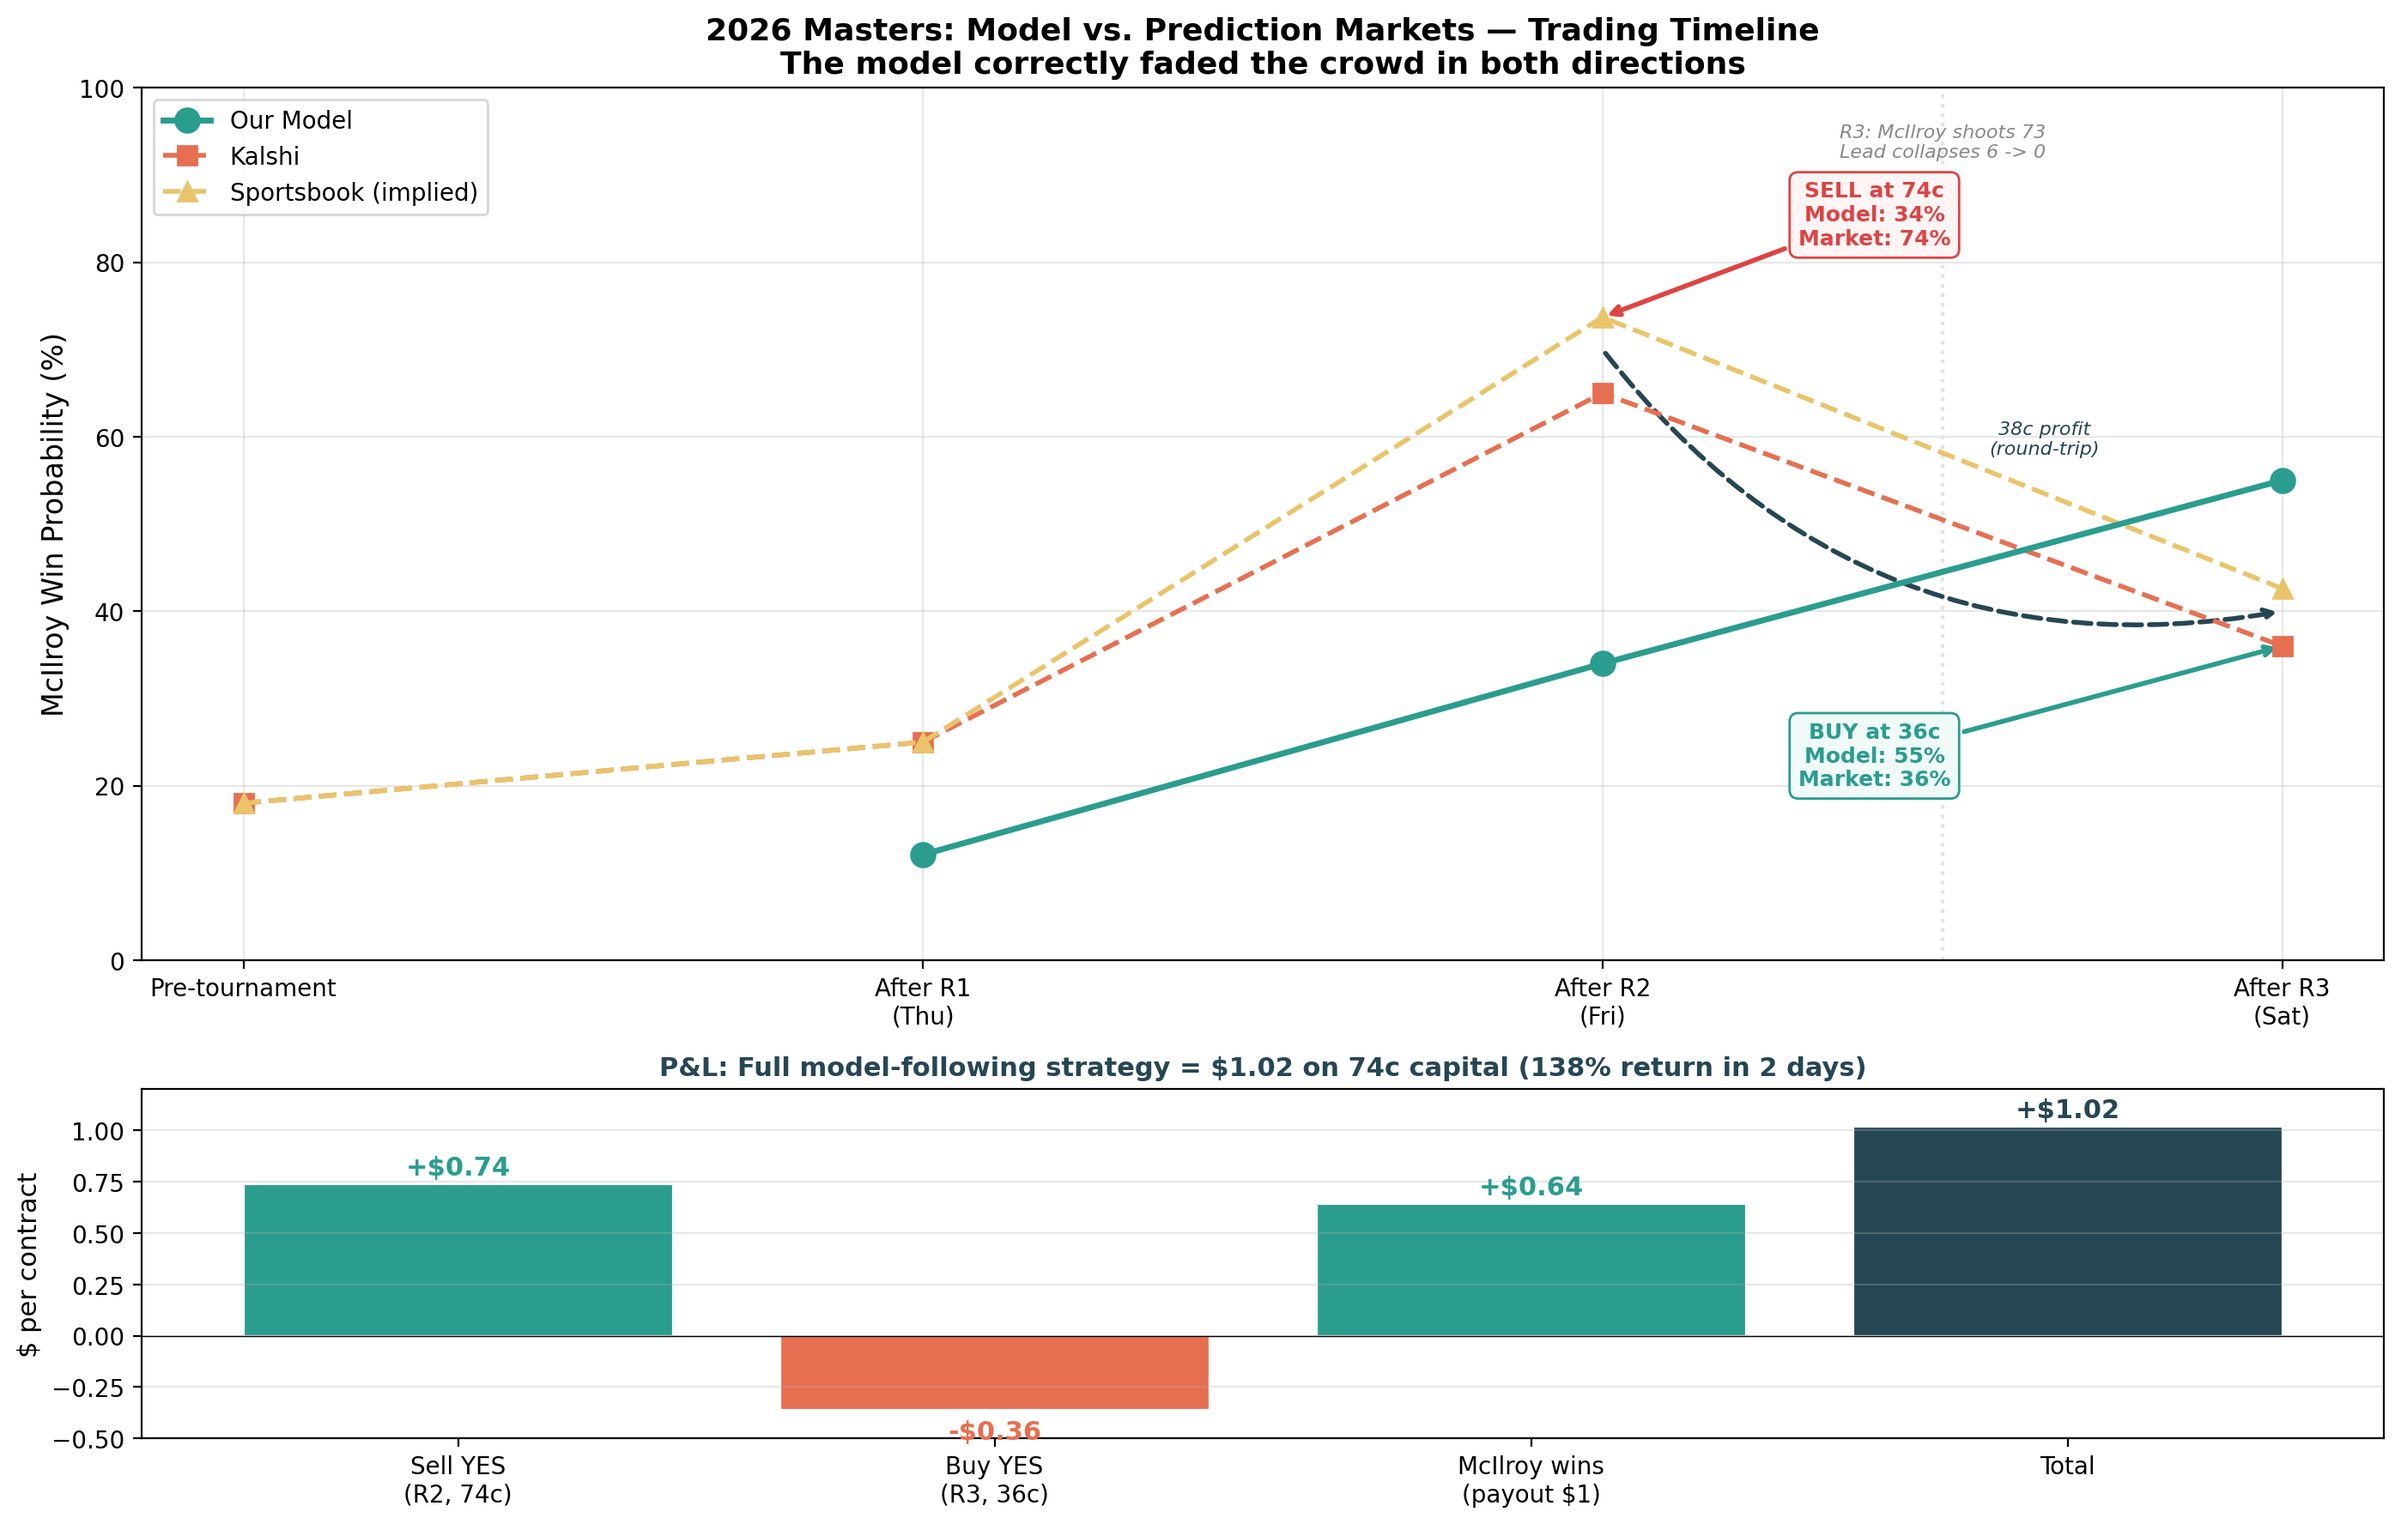
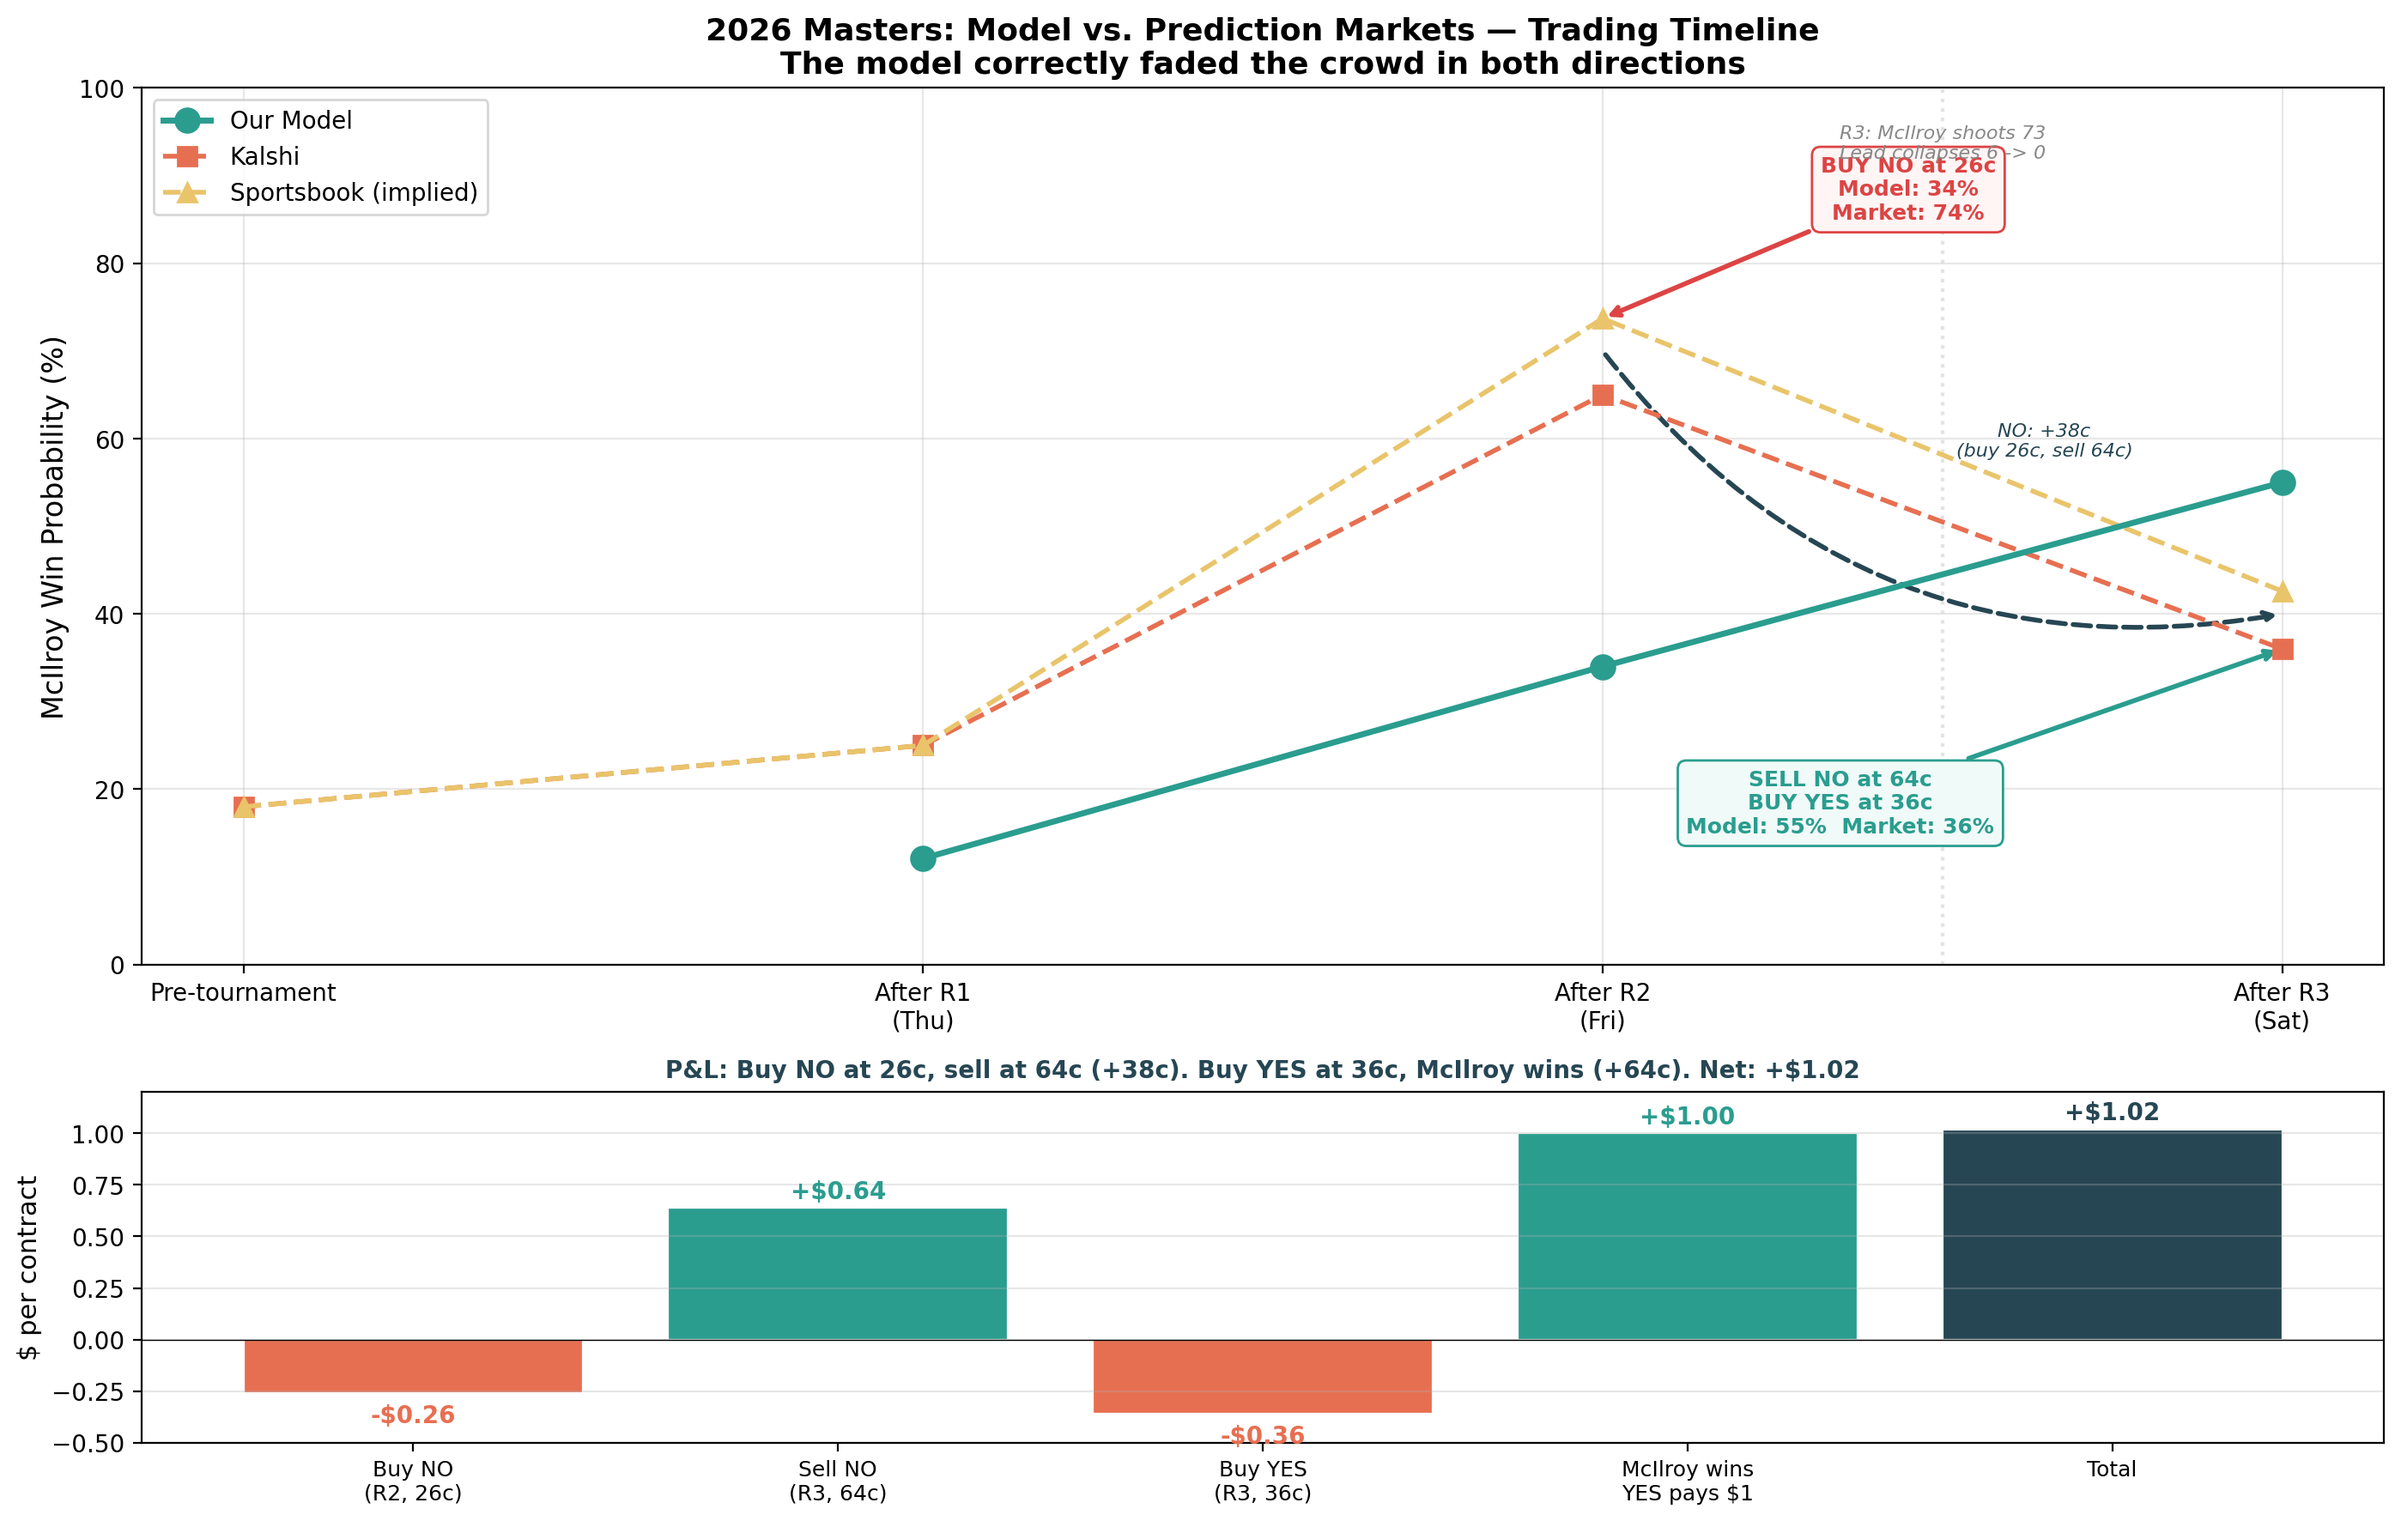
Reframe trading timeline with BUY NO / SELL NO mechanics
More natural framing: start by buying NO (not selling YES you don't own).
- After R2: BUY NO at 26c (model says McIlroy overpriced)
- After R3: SELL NO at 64c (+38c, 146% return, no outcome risk)
- After R3: BUY YES at 36c, McIlroy wins (+64c)
- Total: +$1.02 on 26c initial capital

https://claude.ai/code/session_01U6Ahk9TRaAWpTfUE1JFNad

diff --git a/tinker_cookbook/recipes/golf_forecasting/masters_2026_trading_analysis.py b/tinker_cookbook/recipes/golf_forecasting/masters_2026_trading_analysis.py
@@ -60,24 +60,24 @@ def analyze_trades():
     # Strategy 1: The Round-Trip (best trade)
     print("\n--- STRATEGY 1: THE ROUND-TRIP (model as contrarian signal) ---\n")
     print("After R2: Model says 34%, market says 65-74%.")
-    print("  -> SELL McIlroy YES at 74c (sportsbook implied)")
-    print("     or BUY NO at 26c on Kalshi")
+    print("  -> BUY McIlroy NO at 26c (market prices YES at 74%, so NO costs 26c)")
     print()
     print("After R3: McIlroy shoots 73, lead collapses. Market drops to 36%.")
-    print("  Model FLIPS: now says 55%, market says 36%.")
-    print("  -> BUY BACK McIlroy YES at 36c")
+    print("  McIlroy NO is now worth 64c (market prices YES at 36%).")
+    print("  Model FLIPS: now says 55% McIlroy, so NO is overpriced.")
+    print("  -> SELL McIlroy NO at 64c")
     print()
-    r2_sell = 0.74
-    r3_buy = 0.36
-    round_trip_profit = r2_sell - r3_buy
-    print(f"  Round-trip profit: {r2_sell:.0%} - {r3_buy:.0%} = {round_trip_profit:.0%} per contract")
-    print(f"  That's a {round_trip_profit/r2_sell:.0%} return in ~24 hours")
+    no_buy = 0.26
+    no_sell = 0.64
+    round_trip_profit = no_sell - no_buy
+    print(f"  Round-trip profit: 64c - 26c = {round_trip_profit:.0%} per contract")
+    print(f"  That's a {round_trip_profit/no_buy:.0%} return in ~24 hours")
     print(f"  NO OUTCOME RISK -- you're flat before the final round!")
     print()
 
     # Strategy 2: Hold the YES through final round
-    print("--- STRATEGY 2: HOLD THE YES (R3 buy through to finish) ---\n")
-    print("After R3: Buy YES at 36c (model says 55%).")
+    print("--- STRATEGY 2: BUY YES AFTER R3 (model says underpriced) ---\n")
+    print("After R3: Buy McIlroy YES at 36c (model says 55%, market says 36%).")
     print("Outcome: McIlroy wins.")
     r3_yes_cost = 0.36
     payout = 1.00
@@ -88,15 +88,16 @@ def analyze_trades():
 
     # Strategy 3: Full model-following strategy
     print("--- STRATEGY 3: FULL MODEL-FOLLOWING (the complete play) ---\n")
-    print("After R2: SELL YES at 74c (model says overpriced)")
-    print("After R3: BUY YES at 36c (model flips, says underpriced)")
+    print("After R2: BUY NO at 26c (model says McIlroy overpriced)")
+    print("After R3: SELL NO at 64c (model flips, McIlroy now underpriced)")
+    print("After R3: BUY YES at 36c (model says 55%)")
     print("Hold through: McIlroy wins, YES pays $1")
     print()
     total = round_trip_profit + r3_profit
-    print(f"  Round-trip profit (R2 sell -> R3 buy): ${round_trip_profit:.2f}")
-    print(f"  Final round profit (R3 hold -> win):   ${r3_profit:.2f}")
-    print(f"  Total profit:                          ${total:.2f} per contract")
-    print(f"  On 74c of initial capital = {total/r2_sell:.0%} return over 2 days")
+    print(f"  NO round-trip (buy 26c, sell 64c):     +${round_trip_profit:.2f}")
+    print(f"  YES hold (buy 36c, pays $1):            +${r3_profit:.2f}")
+    print(f"  Total profit:                           +${total:.2f}")
+    print(f"  On 26c of initial capital = {total/no_buy:.0%} return over 2 days")
     print()
 
     # The key insight
@@ -137,7 +138,7 @@ def analyze_trades():
         "round_trip_profit": round_trip_profit,
         "r3_hold_profit": r3_profit,
         "total_profit": total,
-        "total_return": total / r2_sell,
+        "total_return": total / no_buy,
     }
 
 
@@ -163,11 +164,11 @@ def plot_trading_timeline():
              "^--", color="#e9c46a", linewidth=2, markersize=8, label="Sportsbook (implied)", zorder=4)
 
     # Add trade annotations
-    # R2: SELL signal
+    # R2: BUY NO signal
     ax1.annotate(
-        "SELL at 74c\nModel: 34%\nMarket: 74%",
+        "BUY NO at 26c\nModel: 34%\nMarket: 74%",
         xy=(2, 73.7),
-        xytext=(2.4, 82),
+        xytext=(2.45, 85),
         fontsize=9,
         fontweight="bold",
         color="#d44",
@@ -176,11 +177,11 @@ def plot_trading_timeline():
         bbox=dict(boxstyle="round,pad=0.4", facecolor="#fff5f5", edgecolor="#d44"),
     )
 
-    # R3: BUY signal
+    # R3: SELL NO + BUY YES signal
     ax1.annotate(
-        "BUY at 36c\nModel: 55%\nMarket: 36%",
+        "SELL NO at 64c\nBUY YES at 36c\nModel: 55%  Market: 36%",
         xy=(3, 36),
-        xytext=(2.4, 20),
+        xytext=(2.35, 15),
         fontsize=9,
         fontweight="bold",
         color="#2a9d8f",
@@ -189,7 +190,7 @@ def plot_trading_timeline():
         bbox=dict(boxstyle="round,pad=0.4", facecolor="#f0faf8", edgecolor="#2a9d8f"),
     )
 
-    # Arrow showing the round-trip
+    # Arrow showing the NO round-trip
     ax1.annotate(
         "",
         xy=(3, 40),
@@ -202,7 +203,7 @@ def plot_trading_timeline():
             connectionstyle="arc3,rad=0.3",
         ),
     )
-    ax1.text(2.65, 58, "38c profit\n(round-trip)", fontsize=8, ha="center", color="#264653", style="italic")
+    ax1.text(2.65, 58, "NO: +38c\n(buy 26c, sell 64c)", fontsize=8, ha="center", color="#264653", style="italic")
 
     # What happened annotation
     ax1.axvline(x=2.5, color="#ddd", linestyle=":", alpha=0.8)
@@ -223,10 +224,15 @@ def plot_trading_timeline():
     ax1.grid(True, alpha=0.3)
 
     # Bottom panel: P&L waterfall
-    trades = ["Sell YES\n(R2, 74c)", "Buy YES\n(R3, 36c)", "McIlroy wins\n(payout $1)", "Total"]
-    values = [0.74, -0.36, 0.64, 1.02]
-    cumulative = [0.74, 0.38, 1.02, 1.02]
-    colors_bar = ["#2a9d8f", "#e76f51", "#2a9d8f", "#264653"]
+    trades = [
+        "Buy NO\n(R2, 26c)",
+        "Sell NO\n(R3, 64c)",
+        "Buy YES\n(R3, 36c)",
+        "McIlroy wins\nYES pays $1",
+        "Total",
+    ]
+    values = [-0.26, 0.64, -0.36, 1.00, 1.02]
+    colors_bar = ["#e76f51", "#2a9d8f", "#e76f51", "#2a9d8f", "#264653"]
 
     bars = ax2.bar(range(len(trades)), values, color=colors_bar, edgecolor="white", linewidth=0.8)
     for i, (bar, val) in enumerate(zip(bars, values)):
@@ -234,13 +240,13 @@ def plot_trading_timeline():
         y_pos = bar.get_height() + 0.02 if val > 0 else bar.get_height() - 0.05
         ax2.text(bar.get_x() + bar.get_width() / 2, y_pos, label,
                  ha="center", va="bottom" if val > 0 else "top",
-                 fontweight="bold", fontsize=11, color=colors_bar[i])
+                 fontweight="bold", fontsize=10, color=colors_bar[i])
 
     ax2.set_xticks(range(len(trades)))
-    ax2.set_xticklabels(trades, fontsize=10)
+    ax2.set_xticklabels(trades, fontsize=9)
     ax2.set_ylabel("$ per contract", fontsize=11)
-    ax2.set_title("P&L: Full model-following strategy = $1.02 on 74c capital (138% return in 2 days)",
-                   fontsize=11, fontweight="bold", color="#264653")
+    ax2.set_title("P&L: Buy NO at 26c, sell at 64c (+38c). Buy YES at 36c, McIlroy wins (+64c). Net: +$1.02",
+                   fontsize=10, fontweight="bold", color="#264653")
     ax2.axhline(y=0, color="black", linewidth=0.5)
     ax2.set_ylim(-0.5, 1.2)
     ax2.grid(True, axis="y", alpha=0.3)

diff --git a/tinker_cookbook/recipes/golf_forecasting/slack_post_draft.md b/tinker_cookbook/recipes/golf_forecasting/slack_post_draft.md
@@ -68,14 +68,14 @@ McIlroy held on to win by one shot.
 
 If you followed the model on Kalshi:
 
-After R2: SELL McIlroy YES at 74c (model says overpriced)
-After R3: BUY BACK McIlroy YES at 36c (model flips, says underpriced)
+After R2: BUY McIlroy NO at 26c (market prices YES at 74%, model says only 34%)
+After R3: SELL McIlroy NO at 64c (market panicked, NO jumped from 26c to 64c)
 
-Round-trip: 38c profit per contract. No outcome risk.
+NO round-trip: +38c profit per contract. 146% return. No outcome risk -- you're flat before Sunday.
 
-Then hold the YES through Sunday. McIlroy wins. Pays $1.
+Then after R3: BUY McIlroy YES at 36c (model flips, says 55%). Hold through Sunday. McIlroy wins. Pays $1. Another +64c.
 
-Total: $1.02 profit on 74c of capital. 138% return in 2 days.
+Total: +$1.02 on 26c of initial capital.
 
 **Post 8 (the real takeaway):**
 
